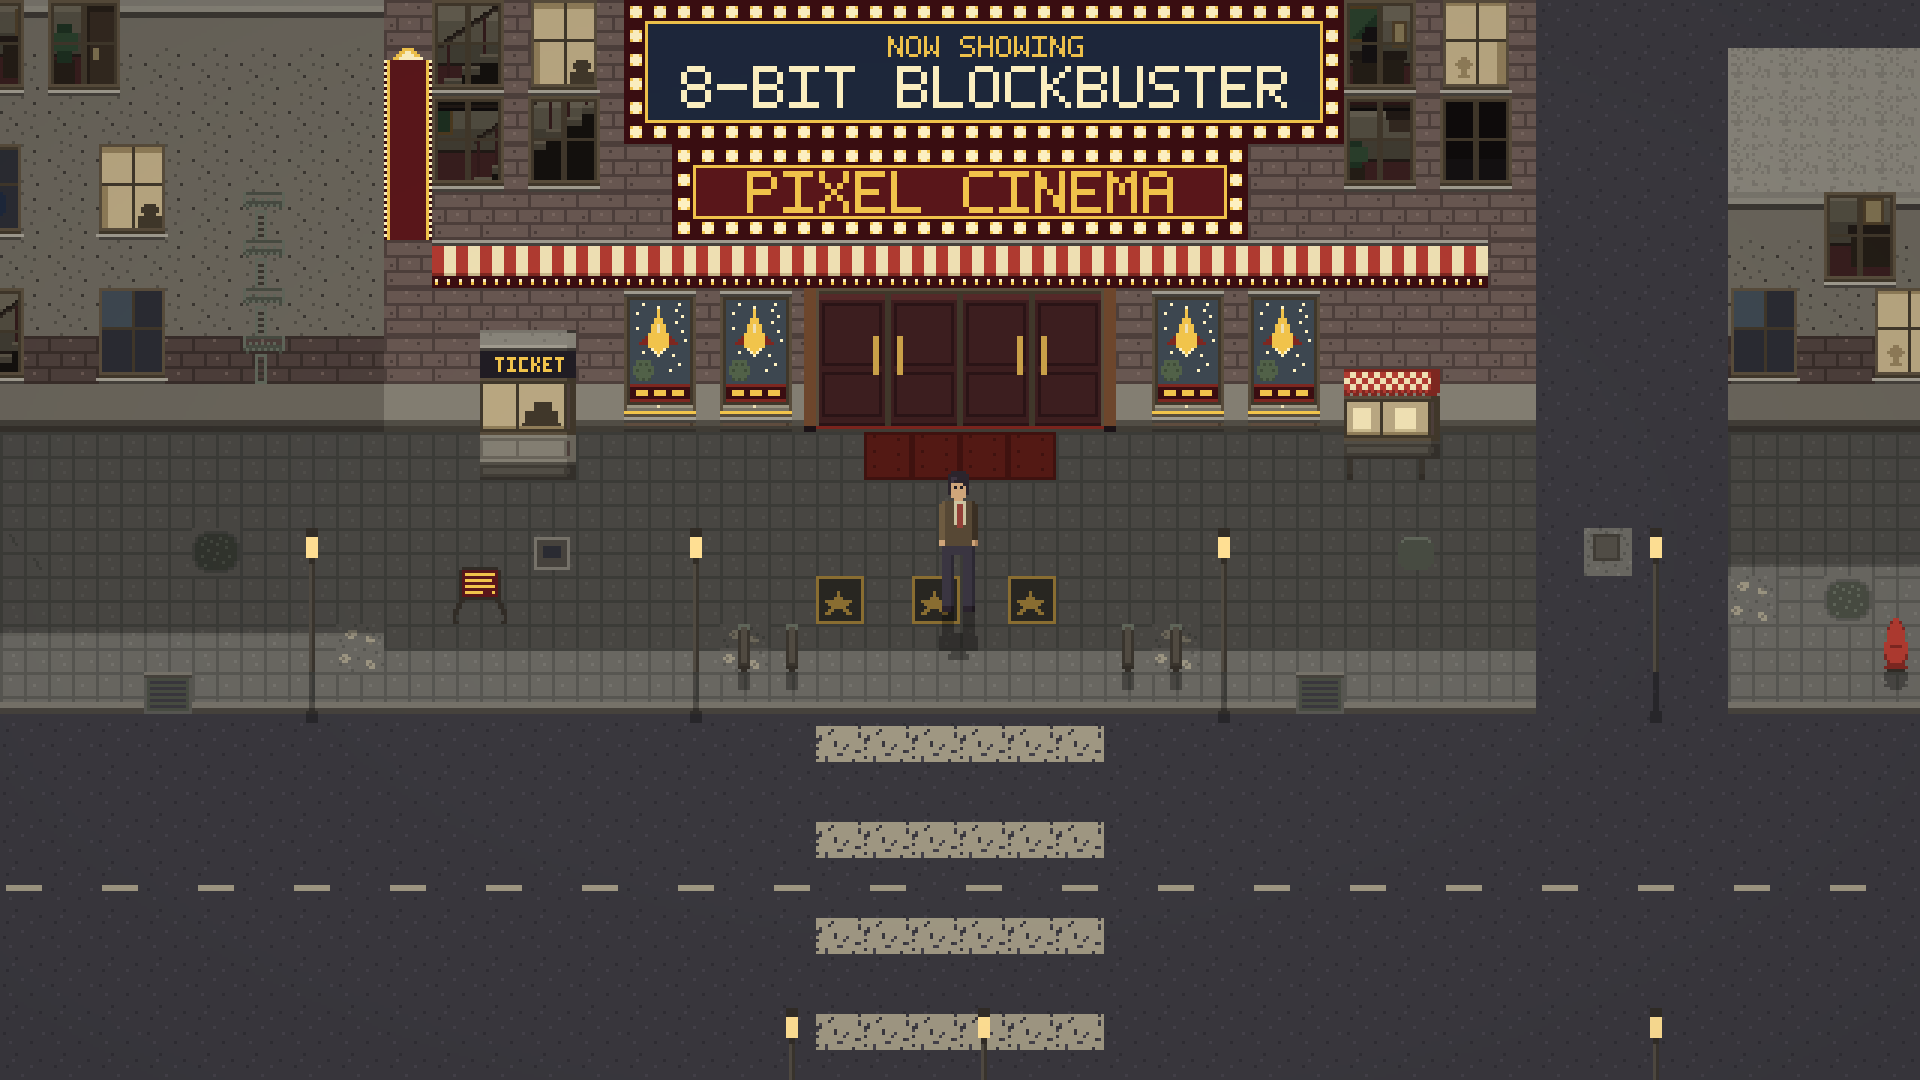
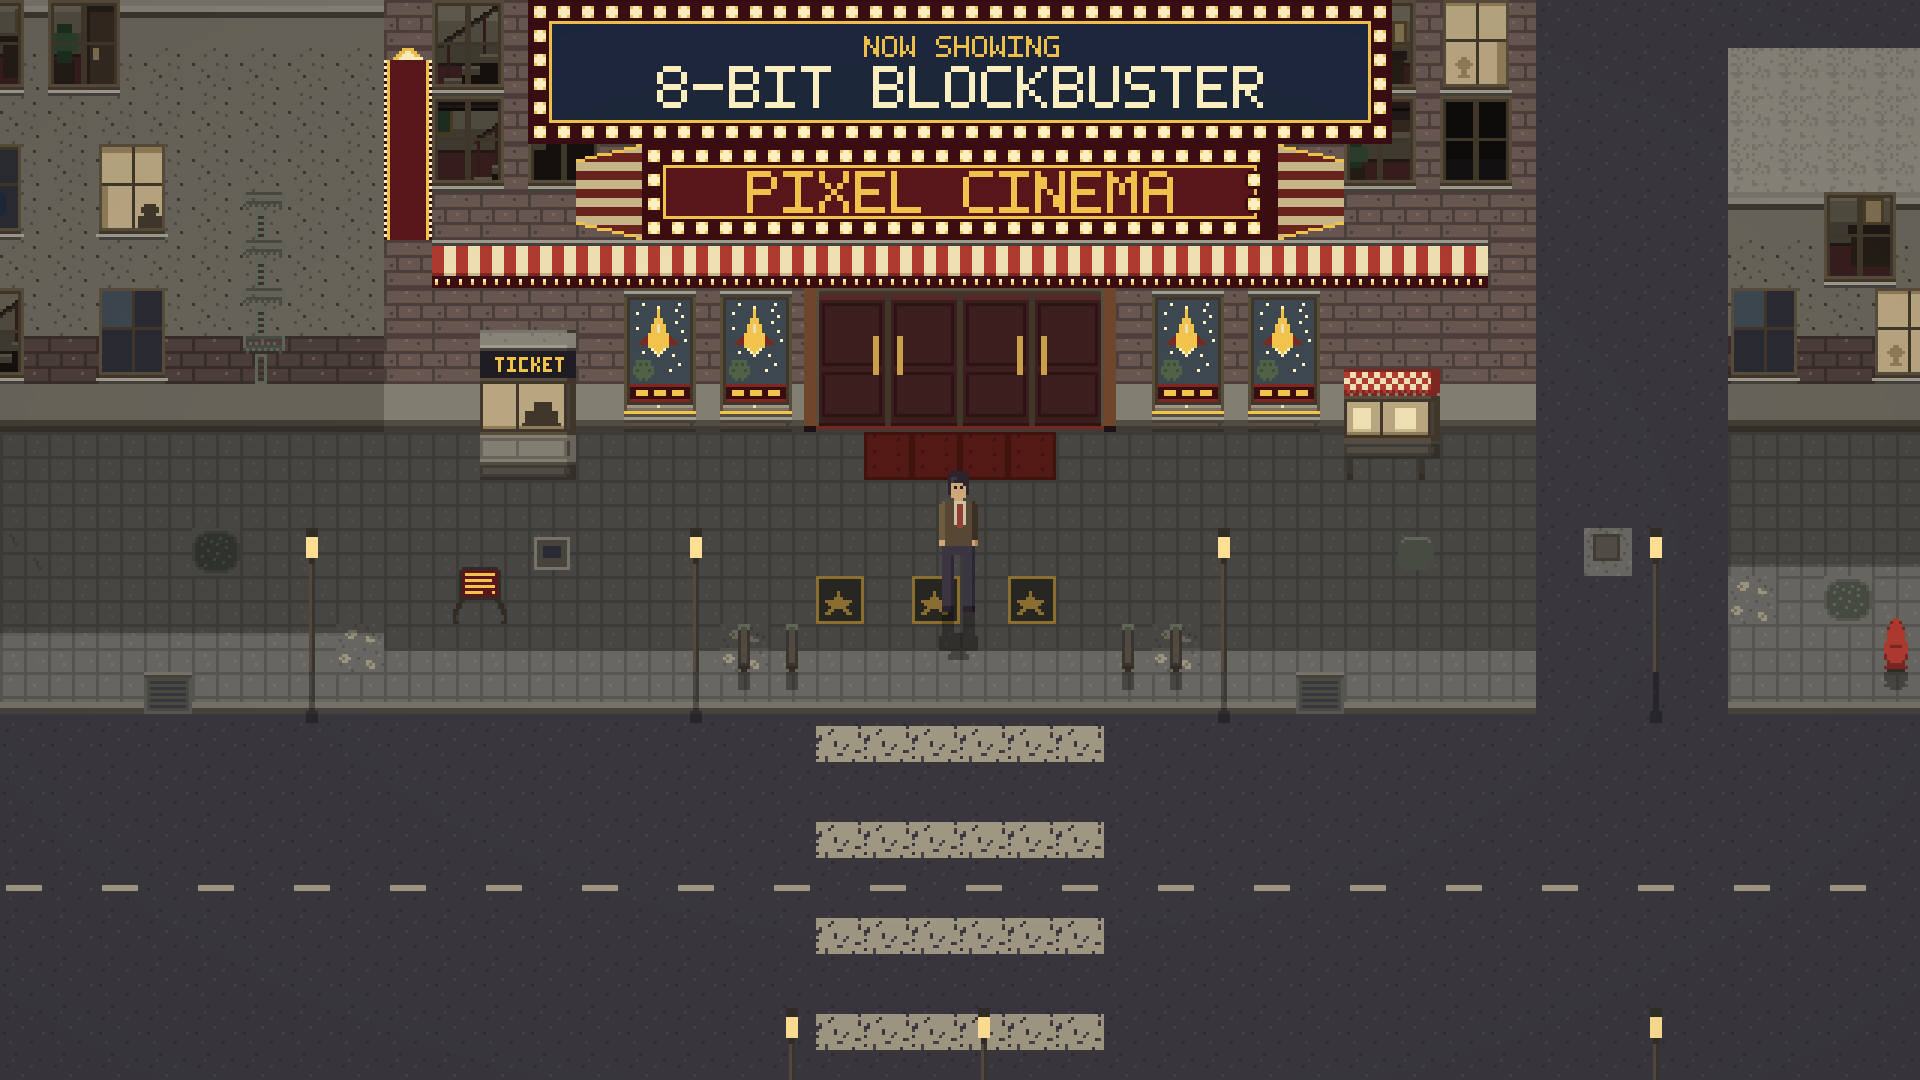
Make the marquee a projecting box, not a board on a wall
A real marquee juts out over the pavement, so from the street you see its
front face and the two short sides running back to the building. That
trapezoid silhouette is what reads as a marquee at a glance, before any of
the lettering is legible -- and ours was a flat rectangle.

A panel opts in with `splay`: px taken off each end for an angled return,
banded as stacked horizontal mouldings and tapering toward its outer edge, so
the far end sits further away. The board's frame, bulb ring and text all
relayout inside what is left rather than the board just being drawn narrower
-- the chase walks the bulb ring, so the ring and the frame have to agree on
one rectangle or the lights run somewhere the board is not.

Two things worth recording.

The bands are phased off absolute y, not off each column's own top edge.
Phasing them per column makes them follow the taper, and the return comes out
a chevron -- it looked like an arrow flight rather than a moulded box side.

`signFieldWidth` takes the splay now, and that is load-bearing rather than
tidiness: it is the number mapLoader validates a name against before anything
is drawn, and a board that splays genuinely has less room for its text. The
first attempt at this failed the map load outright -- "PIXEL CINEMA" needs
142px and a 12-tile board with 22px returns leaves 124 -- which is the
validation doing exactly its job. The name board is 16 tiles now and the
reader board 18, which is also closer to the reference's proportions.
[…]

Changed region(s): [[0.25, 0.0, 0.75, 0.2444]]

diff --git a/src/game/tilemap/renderer.js b/src/game/tilemap/renderer.js
@@ -33,6 +33,7 @@ import { measureWidth, CHAR_H } from './font.js';
 import {
   BULB, SIGN_LINE_GAP, SIGN_GOLD, SIGN_FIELD_COLOR, SIGN_BACK_COLOR,
   signLines, signBlockHeight, signLineWidth,
+  SIGN_SPLAY_TAPER, SIGN_SPLAY_BAND, SIGN_SPLAY_LIGHT, SIGN_SPLAY_DARK, SIGN_SPLAY_EDGE,
 } from './sign.js';
 import { ShadowLayer } from './shadows.js';
 import { LightingLayer, wireLight } from '../lighting.js';
@@ -781,9 +782,19 @@ export class TileMapRenderer {
    * @returns {{x: number, y: number}[]}
    */
   _paintSign(g, w, h, p) {
-    g.rect(SIGN_BACK_COLOR, 0, 0, w, h);
-    g.rect(p.border ?? SIGN_GOLD, BULB - 1, BULB - 1, w - (BULB - 1) * 2, h - (BULB - 1) * 2);
-    g.rect(p.bg ?? SIGN_FIELD_COLOR, BULB, BULB, w - BULB * 2, h - BULB * 2);
+    // Angled end returns, drawn first so the board's own frame closes over
+    // their inner edge -- see sign.js's SIGN_SPLAY_*. Everything below is
+    // then laid out inside what is left, which is why `x0`/`bw` replace 0/w
+    // rather than the board simply being drawn narrower and centred: the
+    // bulb ring, the frame and the text all have to agree on the same
+    // rectangle or the chase walks a ring the board does not have.
+    const splay = p.splay ?? 0;
+    if (splay) this._paintSplay(g, w, h, splay);
+    const x0 = splay, bw = w - splay * 2;
+
+    g.rect(SIGN_BACK_COLOR, x0, 0, bw, h);
+    g.rect(p.border ?? SIGN_GOLD, x0 + BULB - 1, BULB - 1, bw - (BULB - 1) * 2, h - (BULB - 1) * 2);
+    g.rect(p.bg ?? SIGN_FIELD_COLOR, x0 + BULB, BULB, bw - BULB * 2, h - BULB * 2);
 
     // Bulbs around all four edges, collected clockwise: top row left to
     // right, down the right side, bottom row right to left, up the left side.
@@ -792,20 +803,52 @@ export class TileMapRenderer {
     // visited twice by the chase and pulsing at double rate.
     const bulbs = [];
     const at = (x, y) => { g.tile('signBulb', x, y); bulbs.push({ x: x + BULB / 2, y: y + BULB / 2 }); };
-    const lastX = Math.floor((w - BULB) / BULB) * BULB;
-    for (let x = 0; x + BULB <= w; x += BULB) at(x, 0);
+    const lastX = x0 + Math.floor((bw - BULB) / BULB) * BULB;
+    for (let x = x0; x + BULB <= x0 + bw; x += BULB) at(x, 0);
     for (let y = BULB; y + BULB <= h - BULB; y += BULB) at(lastX, y);
-    for (let x = lastX; x >= 0; x -= BULB) at(x, h - BULB);
-    for (let y = h - BULB * 2; y >= BULB; y -= BULB) at(0, y);
+    for (let x = lastX; x >= x0; x -= BULB) at(x, h - BULB);
+    for (let y = h - BULB * 2; y >= BULB; y -= BULB) at(x0, y);
 
     const lines = signLines(p);
     if (!lines.length) return bulbs;
     let ty = Math.round((h - signBlockHeight(lines)) / 2);
     for (const l of lines) {
-      g.text(l.text, Math.round((w - signLineWidth(l)) / 2), ty, l.scale, l.color, l.font);
+      g.text(l.text, x0 + Math.round((bw - signLineWidth(l)) / 2), ty, l.scale, l.color, l.font);
       ty += (signBlockHeight([l])) + SIGN_LINE_GAP;
     }
     return bulbs;
+  }
+
+  /**
+   * One marquee end return, both ends, drawn as stacked horizontal mouldings
+   * that taper toward the outer edge.
+   *
+   * The taper is the whole trick. A return drawn at full board height reads
+   * as more board; shrinking it as it goes outward is what puts the far end
+   * further away, and the resulting trapezoid silhouette is what says
+   * "projecting box" before a single letter on the front face is legible.
+   */
+  _paintSplay(g, w, h, splay) {
+    const taper = Math.round(h * SIGN_SPLAY_TAPER);
+    for (let i = 0; i < splay; i++) {
+      // 1 at the outermost column, 0 where the return meets the board.
+      const t = (splay - i) / splay;
+      const dy = Math.round(taper * t);
+      const y0 = dy, y1 = h - dy;
+      for (const x of [i, w - 1 - i]) {
+        for (let y = y0; y < y1; y++) {
+          // Banded off absolute y, NOT off this column's own top edge: the
+          // mouldings are horizontal courses running the length of the
+          // marquee, so they have to line up across every column of the
+          // return. Phasing them from `y0` instead makes the bands follow
+          // the taper and the return reads as a chevron.
+          g.rect(y % (SIGN_SPLAY_BAND * 2) < SIGN_SPLAY_BAND
+            ? SIGN_SPLAY_LIGHT : SIGN_SPLAY_DARK, x, y, 1, 1);
+        }
+        g.rect(SIGN_SPLAY_EDGE, x, y0, 1, 1);
+        g.rect(SIGN_SPLAY_EDGE, x, y1 - 1, 1, 1);
+      }
+    }
   }
 
   /**

diff --git a/src/game/tilemap/sign.js b/src/game/tilemap/sign.js
@@ -39,6 +39,28 @@ export const SIGN_BACK_COLOR = '#3a0d12';
 export const SIGN_TEXT_MARGIN = 4;
 
 /**
+ * A marquee's angled end returns -- the part that makes it a projecting box
+ * rather than a board glued flat to the wall.
+ *
+ * A real marquee juts out over the pavement, so from the street you see its
+ * front face *and* the two short sides running back to the building. Those
+ * returns are what the reference reads as a marquee at a glance, before any
+ * of the lettering is legible: the silhouette is a trapezoid, not a rectangle.
+ * A panel opts in with `splay` (px taken off each end for the return), and
+ * the return tapers toward its outer edge -- the further from the viewer, the
+ * shallower it reads.
+ *
+ * Banded rather than flat, because a marquee's soffit and fascia are stacked
+ * horizontal mouldings and the banding is what tells you the return is a
+ * surface turning away rather than a flat block of colour beside the board.
+ */
+export const SIGN_SPLAY_TAPER = 0.16;   // of board height, lost at the outer edge
+export const SIGN_SPLAY_BAND = 3;       // moulding pitch, px
+export const SIGN_SPLAY_LIGHT = '#c9b795';
+export const SIGN_SPLAY_DARK = '#6a2320';
+export const SIGN_SPLAY_EDGE = '#f2c451';
+
+/**
  * A panel's text as a normalised list of lines. `lines` is the general form
  * (each entry may carry its own `scale`, `color` and `font`, so one board can
  * set a small label over a big title the way a real reader board does);
@@ -57,9 +79,12 @@ export function signLines(p) {
 }
 
 /** Pixel width actually available to text on a board `fw` tiles wide, once
- *  its bulb frame and end margins are taken out. */
-export function signFieldWidth(fw) {
-  return fw * TILE - BULB * 2 - SIGN_TEXT_MARGIN * 2;
+ *  its bulb frame, end margins and any angled returns are taken out. The
+ *  splay has to be in here and not only in the renderer: this is the number
+ *  mapLoader validates a name against before anything is drawn, and a board
+ *  that splays has genuinely less room for its text. */
+export function signFieldWidth(fw, splay = 0) {
+  return fw * TILE - splay * 2 - BULB * 2 - SIGN_TEXT_MARGIN * 2;
 }
 
 /** Pixel height a normalised line list occupies as a block. */

diff --git a/src/game/tilemap/mapLoader.js b/src/game/tilemap/mapLoader.js
@@ -147,7 +147,7 @@ export function loadCityMap(raw, scene) {
    */
   const checkSignText = (label, panel, bandTiles) => {
     const lines = signLines(panel);
-    const avail = signFieldWidth(bandTiles);
+    const avail = signFieldWidth(bandTiles, panel.splay ?? 0);
     lines.forEach((line, i) => {
       const where = lines.length > 1 ? `${label}.lines[${i}]` : label;
       if (typeof line.text !== 'string' || !line.text.length) {
